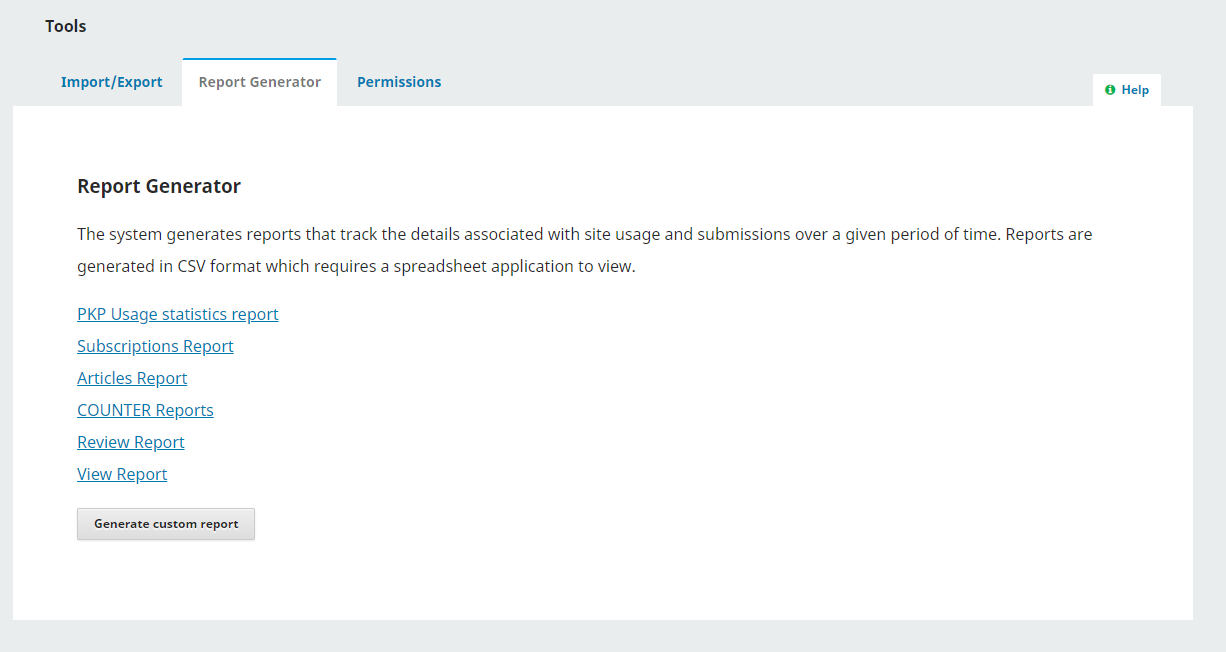
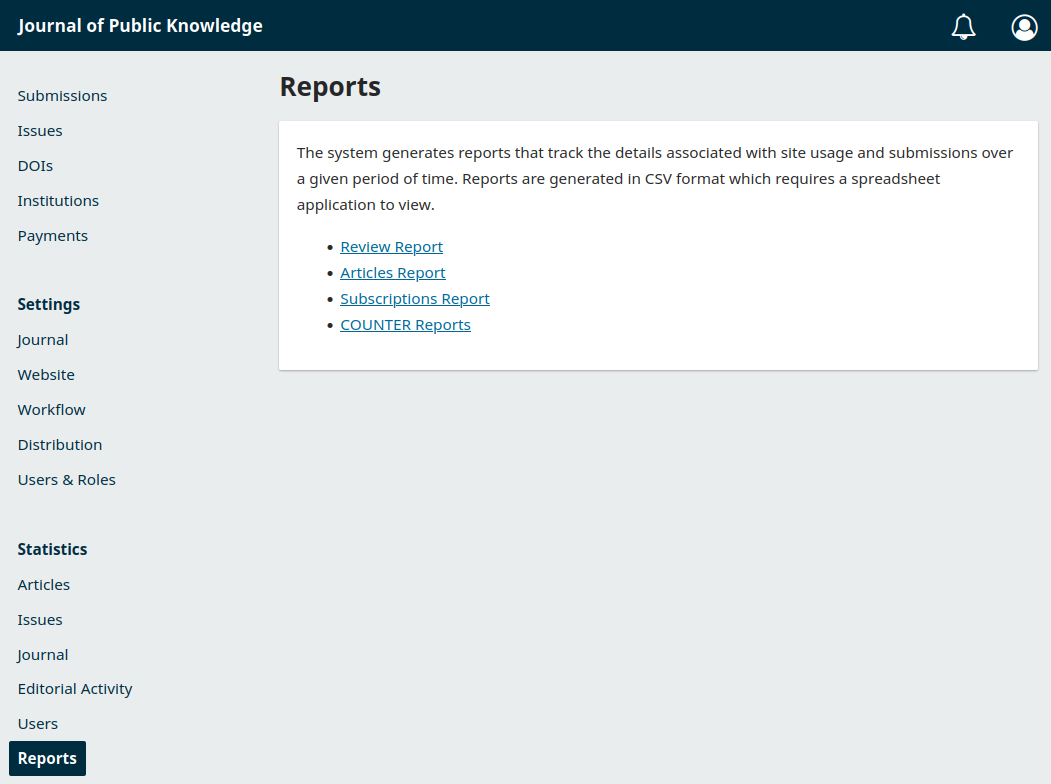
Overhaul statistics for OJS 3.4

diff --git a/learning-ojs/en/statistics.md b/learning-ojs/en/statistics.md
@@ -55,6 +55,14 @@ You also have the option of searching the statistics of a specific article by ti
 
 ![The search bar for locating specific article statistics.](./assets/article-details-search.png)
 
+### Geographical and Institutional Statistics
+
+When Geographical and Institutional Statistics have been enabled (see the [Administrator's Guide](https://docs.pkp.sfu.ca/admin-guide/en/statistics) for details), OJS can collect data about the readers' locations and institutions for statistical reporting. To access these reports, click "Download Report" and choose the report you wish to access.
+
+![List of reports available from Download Report](./assets/download-report.png)
+
+This information is also available via the COUNTER SUSHI interface. See the [Administrator's Guide](https://docs.pkp.sfu.ca/admin-guide/en/statistics#counter) for details.
+
 ## Editorial Activity
 
 This section provides statistics about the editorial workflow, such as number of submissions received, days to first editorial decision, and acceptance and rejection rates. You can filter these statistics using a custom date range to, e.g., find the number of articles accepted during a 12-month period.
@@ -76,228 +84,15 @@ This section provides information about new user/role registrations within a spe
 
 ![Sample users statistics data.](./assets/users.png)
 
-## Report Generator
+## Reports
 
-The Report Generator page provides access to a variety of reports from your journal.
+The Reports page provides access to a variety of reports from your journal. The list may be expanded by installing additional plugins.
 
 ![The list of reports on the Report Generator page in OJS, detailed below.](./assets/report-generator.png)
 
-The system generates reports that track the details associated with site usage and submissions over a given period of time. These reports can be broadly grouped into “usage” reports that contain usage metrics indicative of visitor readership and “content” reports that provide data on the respective item (eg. review information). Reports are generated in CSV format which requires a spreadsheet application to view. 
+The system generates reports that track the details associated with site usage and submissions over a given period of time. These reports can be broadly grouped into “usage” reports that contain usage metrics indicative of visitor readership and “content” reports that provide data on the respective item (eg. review information). Reports are usually generated in CSV format which requires a spreadsheet application to view.
 
-* PKP Usage Statistics Report: Provides granular daily usage metrics for all article, article file, issue and homepage views/downloads. Will include visitor country data, if that is being logged. See Usage Statistics Report below for more information and examples. (Usage)
-* Subscriptions Report: Provides information on any individual and institutional subscriptions. This report option is only available if subscriptions are enabled on the journal. (Content)
-* Articles Report: Provides a spreadsheet of all published articles. (Content)
-* COUNTER Reports: Provides COUNTER reports for all journals on the OJS application. Provides monthly and year to date aggregate counts for abstract and galley views. (Usage)
 * Review Report: Provides review information on all articles in the system, including reviewer names, reviews, and recommendations. (Content)
-* View Report: Provides a report on galley and abstract views by readers (i.e., how many times a PDF for an article has been viewed). (Usage)
-* Custom Report Generation: Customizable version of the Usage Statistics report, where various facets can be selected and specific date spans can be set. See Generate Custom Report for more information and examples. (Usage)
-
-### Usage Statistics Report
-
-This report provides granular data on monthly views for the journal homepage, issue TOCs, article abstract/landing pages, and file views in CSV format. It provides country information (if configured). Each row provides a total monthly view count for a particular object (journal home page, article abstract page, article galley, or issue table of contents). It further facets this by country if country support has been enabled and properly configured.
-
-**Use for:** generating a multifaceted overview content usage from month to month. It lists monthly view counts for all articles, article file downloads, issue TOC views, and journal homepage views for the specified timespan. Additional manual manipulation of the resulting report must be done to achieve aggregate results.
-
-**Do Not Use for:** attempting to get a quick usage snapshot, legacy usage, or journals that have a very large metrics dataset \(due to long history, high readership, or depth of metrics granularity\). Use the Custom Report Generator instead.
-
-**Special Notes:**
-
-* This report attempts to capture the entire usage history for: the journal home page, all article abstracts, all article galleys, and all issue table of contents.
-* **OJS version 3.1.1 or older installs**: To reduce the potential for exceeding time limits for downloads, this report only provides 5,000 records. If you have a lot of reportable data, this report will most likely not report it all. If this is the case, the Custom Report Generator plugin should be used instead, using smaller date ranges. (This restriction was removed in OJS 3.1.2.)
-
-**Example Data \(slightly edited for clarity\):**
-
-| **ID** | **Type** | **Title** | **Issue** | **Journal** | **Country** | **Month** | **Count** |
-| --- | --- | --- | --- |
-| 1 | Journal | Canadian Journal of Communication | CJC | CA | 201502 | 1678 |  |
-| 112 | Article | Toronto Star Fires Reporter Claire Hoy, Sues Him and TV Stations on Libel Charge | Vol 1, No 3 \(1974\) | CJC | CA | 201502 | 3 |
-| 112 | Article | Toronto Star Fires Reporter Claire Hoy, Sues Him and TV Stations on Libel Charge | Vol 1, No 3 \(1974\) | CJC | US | 201502 | 1 |
-
-From the above example, we can see that in February 2015 the main CJC journal homepage was viewed 1,678 times, which the article “Toronto Star Fires Reporter …” was viewed 3 times from Canada and once from the United States.
-
-### View Report
-
-This report provides per-article abstract views and galley views/downloads. These usage metrics are not filtered for multi-clicks or bot/crawler activity and thus may seem inflated in comparison to more recent statistics.
-
-Example Data (slightly edited for clarity):
-
-In the sample below we can see that article 95, “The Making of the Canadian Media,” has had 443 abstract views and 1476 total galley views. The PDF and Total Galley views are the same because there were no HTML views. With article 1125, “Digital Networks,” the abstract was viewed 1821 times and total galley views are 8478, which is the sum of the HTML and PDF views.
-
-****
-
-| **ID** | **Article Title** | **Issue** | **Date Published** | **Abstract** | **Total Galleys** | **HTML** | **PDF** |
-| --- | --- | --- |
-| 95 | The Making of the Canadian Media | Vol 6, No 1 \(1979\) | 1979-01-03 | 443 | 1476 |   | 1476 |
-| 1125 | Digital Networks | Vol 24, No 4 \(1999\) | 1999-04-01 | 1821 | 8478 | 2093 | 6385 |
-
-### Generate Custom Report
-
-Use this feature to build your own reports. These reports provide granular data on daily views for the journal using the full metrics dataset. You are able to aggregate results by:
-
-* Country
-* Region
-* City
-* Month
-* Day
-
-Metrics are tracked against specific item types (AKA “objects”):
-
-* File downloads
-* Abstract views
-* Issue Table of Contents views
-* Journal Homepage views
-
-![The custom report generator interface in OJS.](./assets/custom-report-generator1.png)
-
-You are also able to limit results to specific date spans.
-
-This is the most flexible report option available in OJS and can provide a very detailed amount of data. Below are some examples of statistics questions that may be useful to journals, as well as instructions on how to formulate a report to answer those questions using this feature.
-
-Special Notes on the Report Generator:
-
-* Depending on the amount of data in your system, the facets you choose to retrieve, and the date span you choose, the system may fail to completely generate a report without timing out. If you encounter this, try reducing the requested date span.
-* If you generate a custom report, the report will also provide you with a Report URL that you can save to use to repeat the identical report process. Make sure to copy and save the URL somewhere so that you can re-run your search later (it will disappear once the page is reloaded).
-* If you create a report that reports on “yesterday” or “current month,” the resulting Report URL will always use “yesterday” or the “current month” relative to the day you run it. So if you originally created a report to report on “yesterday” a year ago and then ran it today, it would report on yesterday. However, if you specify a specific date range, say April 1 - April 15 2018, the resulting Report URL will always report metrics for that specific range.
-* Note that the current day’s data will not be available until the next day.
-* The generator works like a funnel for data. The trick is to narrow down the bigger elements (such as date range), select what you’re interested in from there (issues, articles, etc.), then tweak the data at the end (i.e., sort by number of downloads).
-* The Report Generator is most useful if you use the Advanced Options. All the examples below make use of the advanced options.
-
-#### Example report: How well has a particular (i.e., most recent) issue performed over the last few months?
-
-This particular query will give you a monthly count of how many full text galleys have been downloaded from a particular issue. You’ll have a column for month and total count for month and a separate row for every month.
-
-* Under “Default report templates” select “Article file downloads” from the dropdown list.
-* Uncheck all boxes in the “Aggregate stats by.”
-* Click on the “Month” radio button and enter date range under “Or select range by.”
-
-![The custom report generator with the above described settings entered in OJS.](./assets/custom-report-generator10.png)
-
-* Open “Advanced Options” and select only “Month” under Columns
-
-!["Month" selected under the advanced options in the custom report generator.](./assets/custom-report-generator3.png)
-
-* We want only a very light filtering of our data. Select submission files, then select the galley formats you wish to include in your report. This example selects only PDF, but you could select PDF and HTML if your journal also offers full-text HTML article downloads. Use Ctrl+Click or Command+Click to select multiple types. Under Object ID, enter the object ID of the issue that you’re interested in, which will be located in the issue’s URL. For example, an issue with the URL publicknowledgeproject.org/journal/index.php/journal/issue/view/**24** has the object ID 24.
-
-![A sample issue ID entered into the custom report generator.](./assets/custom-report-generator4.png)
-
-* Ignore the “By geo location” and “Order by” options, and click “Generate custom report.”
-* You’ll end up with a very simple monthly report of the galley downloads for the one issue of interest for your journal.
-
-![Results in .csv format returned from the above custom report.](./assets/custom-report-generator5.png)
-
-* Save the URL at the bottom of the page for your records!
-
-#### Example report: What are the most downloaded articles over the last 5 years?
-
-This report will present a list of article titles (and the issues they come from) ordered by descending download counts.
-
-* Select “Article file downloads” from the dropdown box.
-* Uncheck all boxes under “Aggregate stats by.”
-* Select the “Month” radio button and enter a date range.
-
-![The custom report generator with the above described settings entered in OJS.](./assets/custom-report-generator10.png)
-
-* Select only “Article” and “Issue” under Columns. We’ll be narrowing down the type at a later point in the query.
-
-!["Article" and "Issue" selected under the advanced options in the custom report generator.](./assets/custom-report-generator6.png)
-
-* Select “Submission Files” under object type and select all galley types you wish to include in the download count. 
-
-![The above described settings entered in OJS.](./assets/custom-report-generator7.png)
-
-* Ignore “geo location” (not shown here).
-* “Order by” will arrange your articles in descending order by number of downloads. To achieve this, select “Count” in the first drop down box, and the select “Descending.”
-
-![Arrows pointing to the first two drop downs in the Order by section, with "Count" and "Descending" selected.](./assets/custom-report-generator8.png)
-
-* The resulting report will appear as follows (truncated):
-
-![Results in .csv format returned from the above custom report.](./assets/custom-report-generator9.png)
-
-* Save your URL at the bottom of the page!
-
-#### Example: What’s our most popular issue?
-
-This query displays a count of full text downloads for each journal issue and orders the results from highest to lowest.
-
-* Select “Article file downloads” from the dropdown box.
-* Uncheck all boxes under “Aggregate stats by.”
-* Select the “Month” radio button and enter a date range.
-
-![The custom report generator with the above described settings entered in OJS.](./assets/custom-report-generator10.png)
-
-* Under columns, click on “Issue.”
-
-!["Issue" selected under the advanced options in the custom report generator.](./assets/custom-report-generator11.png)
-
-* Under “Filters”, select “Submission Files” under Object Type, and select the galley file type(s) used by your journal (use Ctrl+Click or Command+Click to select multiple types).
-
-![The above described settings entered in OJS.](./assets/custom-report-generator7.png)
-
-* Ignore “geo location” (not shown here).
-* “Order by” will arrange your articles in descending order by number of downloads. To achieve this, select “Count” in the first drop down box, and the select “Descending.”
-
-![Arrows pointing to the first two drop downs in the Order by section, with "Count" and "Descending" selected.](./assets/custom-report-generator8.png)
-
-* Run your report. Here is what you’ll get:
-
-![Results in .csv format returned from the above custom report.](./assets/custom-report-generator12.png)
-
-* Don’t forget to save your URL to run at a later date.
-
-#### Example: What countries are downloading our articles (for a specific date interval)?
-
-This query will display aggregate counts for fulltext downloads by country in descending order. Note that one will need to specify a date range.
-
-* Select “Article file downloads” from the dropdown box.
-* Uncheck all boxes under “Aggregate stats by.”
-* Select the “Month” radio button and enter a date range.
-
-![The custom report generator with the above described settings entered in OJS.](./assets/custom-report-generator10.png)
-
-* Select only “Journal” and “Country” under Columns. You can use Ctrl+Click or Command+Click to select multiple items. We’ll be narrowing down the type at a later point in the query.
-
-!["Journal" and "Country" selected under the advanced options in the custom report generator.](./assets/custom-report-generator13.png)
-
-* Under “Filters”, select “Submission Files” under Object Type, and select the galley file type(s) used by your journal (use Ctrl+Click or Command+Click to select multiple types).
-
-![The above described settings entered in OJS.](./assets/custom-report-generator7.png)
-
-* “Order by” will arrange your articles in descending order by number of downloads. To achieve this, select “Count” in the first drop down box, and the select “Descending.”
-
-![Arrows pointing to the first two drop downs in the Order by section, with "Count" and "Descending" selected.](./assets/custom-report-generator8.png)
-
-* Run the report.
-* Don’t forget to save your URL to run at a later date.
-
-![Results in .csv format returned from the above custom report.](./assets/custom-report-generator14.png)
-
-### Display Usage Statistics for Readers
-
-In OJS 3 you can display an article’s usage statistics for the current year as a graph on the article landing page by using the Usage Statistics Plugin, as seen in this image.
-
-![A sample article with a graph of monthly downloads shown under the abstract.](./assets/reader-statistics.png)
-
-To enable the Usage Statistics Plugin:
-
-1. Go to Settings &gt; Website &gt; Plugins.
-2. Under Generic Plugins, find the **Usage Statistics Plugin**.
-3. Check the box to the right of the plugin description.
-
-To configure the Usage Statistics Plugin:
-
-1. Go to Settings &gt; Website &gt; Plugins.
-2. Under Generic Plugins, find the **Usage Statistics Plugin**.
-3. Click the blue arrow to the left of the plugin name to make links appear below the plugin.
-4. Click **Settings**.
-5. Scroll to the bottom of the pop-up box that opens to the section **Statistics Display Options**.
-6. Check the box beside **Display submission statistics chart for reader**.
-7. Below that you can select whether you would like to display the statistics as a bar or line graph and the maximum number of months to display usage for.
-8. Click **Save**.
-
-![The optional statistic checkboxes where users can enable/disable city or regional data collection, and enable the statistics viewable to readers.](./assets/usage-stats-plugin-configuration-basic.png)
-
-Please note the following:
-
-* Usage statistics can only be displayed for the current year. The plugin is reset at the beginning of each year.
-* The statistics being displayed indicate the number of times an article was downloaded.
+* Articles Report: Provides a spreadsheet of all published articles. (Content)
+* Subscriptions Report: Provides information on any individual and institutional subscriptions. This report option is only available if subscriptions are enabled on the journal. (Content)
+* COUNTER Reports: Provides COUNTER 4.1 reports for all journals on the OJS application. Provides monthly and year to date aggregate counts for abstract and galley views. (See the [Admin Guide](/admin-guide/en/statistics.html) for information on accessing Counter R5 reports.) (Usage)
